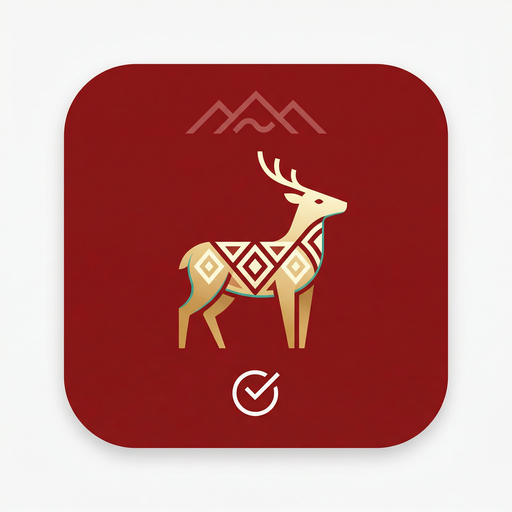
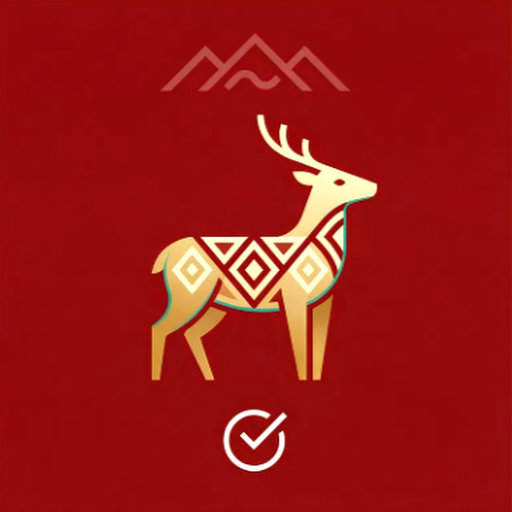
Checkpoint: 裁切白邊並高清放大（OpenCV Lanczos4 + 銳化 + 色彩增強）後更新所有 PWA 圖標為用戶選定的深紅色鹿圖標版本。

diff --git a/app.config.ts b/app.config.ts
@@ -32,7 +32,7 @@ const env = {
   appSlug: "attendance-app",
   // S3 URL of the app logo - set this to the URL returned by generate_image when creating custom logo
   // Leave empty to use the default icon from assets/images/icon.png
-  logoUrl: "https://d2xsxph8kpxj0f.cloudfront.net/310519663487173990/dvHycosbPvRvBSsW7DJCxS/app-icon-modern-v1_1be5b98c.png",
+  logoUrl: "https://d2xsxph8kpxj0f.cloudfront.net/310519663487173990/dvHycosbPvRvBSsW7DJCxS/app-icon-selected_e2fb6214.png",
   scheme: schemeFromBundleId,
   iosBundleId: bundleId,
   androidPackage: bundleId,
@@ -43,7 +43,7 @@ const config: ExpoConfig = {
   slug: env.appSlug,
   version: "1.0.0",
   orientation: "portrait",
-  icon: "https://d2xsxph8kpxj0f.cloudfront.net/310519663487173990/dvHycosbPvRvBSsW7DJCxS/app-icon-modern-v1_1be5b98c.png",
+  icon: "https://d2xsxph8kpxj0f.cloudfront.net/310519663487173990/dvHycosbPvRvBSsW7DJCxS/app-icon-selected_e2fb6214.png",
   scheme: env.scheme,
   userInterfaceStyle: "automatic",
   newArchEnabled: true,
@@ -57,7 +57,7 @@ const config: ExpoConfig = {
   android: {
     adaptiveIcon: {
       backgroundColor: "#E6F4FE",
-      foregroundImage: "https://d2xsxph8kpxj0f.cloudfront.net/310519663487173990/dvHycosbPvRvBSsW7DJCxS/app-icon-modern-v1_1be5b98c.png",
+      foregroundImage: "https://d2xsxph8kpxj0f.cloudfront.net/310519663487173990/dvHycosbPvRvBSsW7DJCxS/app-icon-selected_e2fb6214.png",
       backgroundImage: "./assets/images/android-icon-background.png",
       monochromeImage: "./assets/images/android-icon-monochrome.png",
     },
@@ -82,7 +82,7 @@ const config: ExpoConfig = {
   web: {
     bundler: "metro",
     output: "static",
-    favicon: "https://d2xsxph8kpxj0f.cloudfront.net/310519663487173990/dvHycosbPvRvBSsW7DJCxS/app-icon-modern-v1_1be5b98c.png",
+    favicon: "https://d2xsxph8kpxj0f.cloudfront.net/310519663487173990/dvHycosbPvRvBSsW7DJCxS/app-icon-selected_e2fb6214.png",
   },
   plugins: [
     "expo-router",
@@ -102,7 +102,7 @@ const config: ExpoConfig = {
     [
       "expo-splash-screen",
       {
-        image: "https://d2xsxph8kpxj0f.cloudfront.net/310519663487173990/dvHycosbPvRvBSsW7DJCxS/app-icon-modern-v1_1be5b98c.png",
+        image: "https://d2xsxph8kpxj0f.cloudfront.net/310519663487173990/dvHycosbPvRvBSsW7DJCxS/app-icon-selected_e2fb6214.png",
         imageWidth: 200,
         resizeMode: "contain",
         backgroundColor: "#ffffff",
